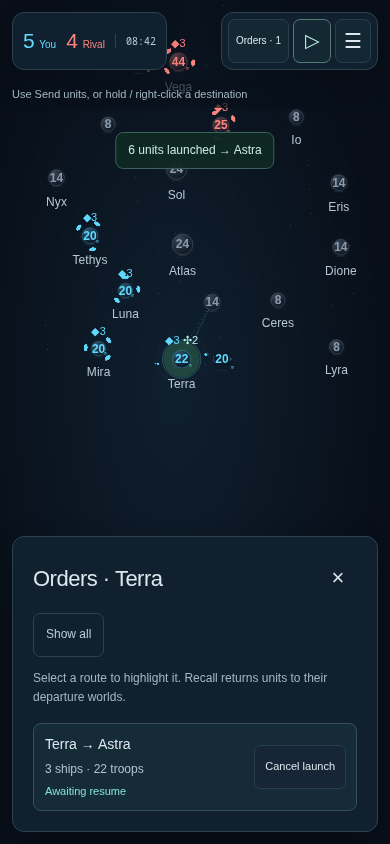
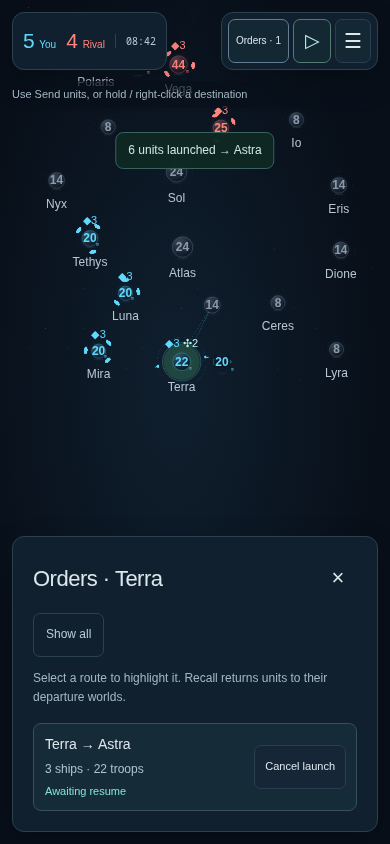
Cancel stale source gestures and reveal orbit counts

diff --git a/src/main.ts b/src/main.ts
@@ -265,6 +265,12 @@ const cancelMapCommand = function (): void {
 	mapInput.cancel();
 	choosingDestination = false;
 };
+const clearSelection = function (): void {
+	cancelMapCommand();
+	selected = [];
+	inspected = undefined;
+	multi = false;
+};
 const selectPlanet = function (id: number): void {
 	if (
 		busy ||
@@ -274,6 +280,7 @@ const selectPlanet = function (id: number): void {
 		return;
 	const p = world.getComponent(id, 'planet');
 	if (!p) return;
+	cancelMapCommand();
 	sheetCollapsed = false;
 	productionExpanded = false;
 	const selectable =
@@ -406,6 +413,7 @@ const refreshContent = function (): void {
 	const match = world.getResource('match');
 	element('opponent-summary', HTMLParagraphElement).textContent = `Opponent: ${opponentLabel(match.opponent ?? DEFAULT_OPPONENT)}`;
 	const all = planets(world);
+	const previousSources = selected.join(',');
 	selected = selected.filter(function (id) {
 		return (
 			world.getComponent(id, 'planet')?.owner === 'blue' ||
@@ -419,6 +427,7 @@ const refreshContent = function (): void {
 		!multi
 	)
 		selected = [inspected];
+	if (previousSources !== selected.join(',')) cancelMapCommand();
 	for (const {
 		id,
 		components: { planet: p },
@@ -512,7 +521,10 @@ const refreshContent = function (): void {
 		`${p?.owner === 'blue' ? 'YOUR' : p?.owner === 'red' ? 'RIVAL' : 'NEUTRAL'} ${p?.carrier ? 'CARRIER' : 'WORLD'}`;
 	selectionInfo.textContent = carrier && p?.owner === 'blue' ? 'Click empty space to move this carrier.' : shipsOnly ? `Your ships in orbit · ${p?.carrier ? 'carrier' : 'surface'} belongs to another faction.` : '';
 	selectionInfo.hidden = selectionInfo.textContent === '';
-	orbitalInfo.hidden = true;
+	const friendlyOrbit = first === undefined ? 0 : shipsAt(world, first, 'blue').length;
+	const rivalOrbit = first === undefined ? 0 : shipsAt(world, first, 'red').length;
+	orbitalInfo.hidden = selected.length > 1 || (rivalOrbit === 0 && !shipsOnly && !(carrier && friendlyOrbit > 0));
+	orbitalInfo.textContent = `Orbit · ${friendlyOrbit} your ships · ${rivalOrbit} rival ships`;
 	const names: Record<Production, string> = { troops: 'Troops', ships: 'Ships', guns: 'Platforms' };
 	const progress = p ? Math.floor(p.progress / CONFIG.cost[p.production] * 100) : 0;
 	productionInfo.textContent = p && ownedSelected.length === 1 && selected.length === 1
@@ -876,9 +888,7 @@ const installGame = async function (
 		speed = installation.pace;
 		speedSelect.value = String(speed);
 		scenarioSelect.value = activeMap === LAB_MAP ? scenario : 'generated';
-		selected = [];
-		inspected = undefined;
-		multi = false;
+		clearSelection();
 		drawer.reset();
 		cancelMapCommand();
 		sheetCollapsed = false;
@@ -1002,10 +1012,7 @@ multiButton.addEventListener('click', function () {
 	refresh();
 });
 element('clear', HTMLButtonElement).addEventListener('click', function () {
-	cancelMapCommand();
-	selected = [];
-	inspected = undefined;
-	multi = false;
+	clearSelection();
 	refresh();
 });
 const cancelDispatch = function (): void {
@@ -1199,9 +1206,7 @@ window.addEventListener('keydown', function (event) {
 			return;
 		}
 		if (!fieldGuide.hidden) toggleGuide();
-		selected = [];
-		inspected = undefined;
-		multi = false;
+		clearSelection();
 		refresh();
 	}
 	if (event.code === 'Space' && event.target === document.body) {

diff --git a/src/gameplay-ui.css b/src/gameplay-ui.css
@@ -218,4 +218,6 @@
 }
 
 #app .planet:hover .name,
-#app .planet:focus-visible .name { visibility: visible !important; background: #08121ded; border-radius: 3px; padding: 2px 4px; }
+#app .planet:focus-visible .name,
+#app .planet:hover .orbit-count,
+#app .planet:focus-visible .orbit-count { visibility: visible !important; background: #08121ded; border-radius: 3px; padding: 2px 4px; }
